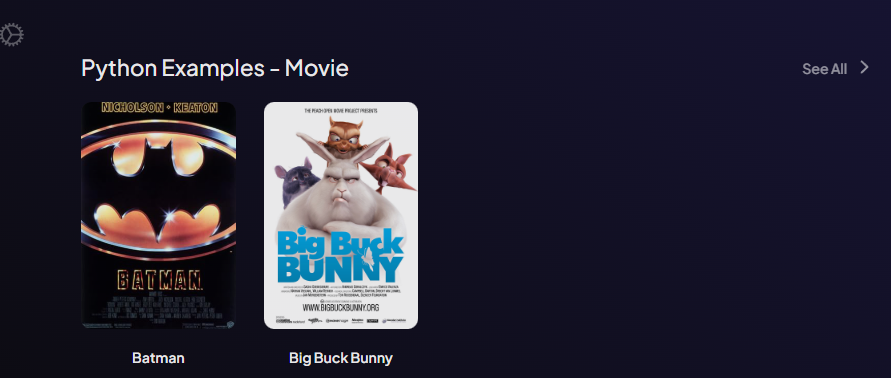
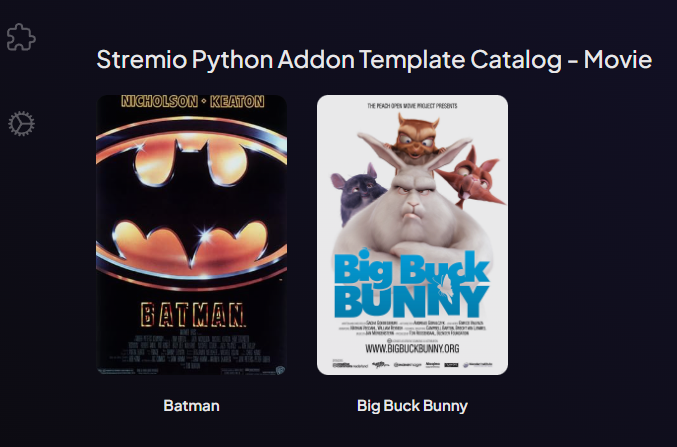
:sparkles: add repo template files

diff --git a/src/stremio_addon_python_template/main.py b/src/stremio_addon_python_template/main.py
@@ -1,25 +1,27 @@
 import uvicorn
-from fastapi import FastAPI
+from fastapi import FastAPI, Request
 from fastapi.middleware.cors import CORSMiddleware
 from fastapi.responses import RedirectResponse
 from nicegui import ui
 
-from stremio_addon_python_template import settings, logger
+from stremio_addon_python_template import settings, logger, __version__
 
 # Stremio Addon Manifest - defines addon capabilities
 MANIFEST = {
     "id": settings.ADDON_ID,
-    "version": "1.0.0",
-    "name": "Python UV Template",
+    "version": __version__,
+    "name": "Stremio Python Addon Template",
     "description": "A sample addon built with Python, FastAPI and UV with Pydantic Settings",
     "logo": "https://dl.strem.io/addon-logo.png",
     "resources": ["stream", "catalog"],
     "types": ["movie", "series"],
-    "catalogs": [{"type": "movie", "id": "python_movies", "name": "Python Examples"}],
+    "catalogs": [
+        {"type": "movie", "id": "python_movies", "name": "Stremio Python Addon Template Catalog"}
+    ],
     "idPrefixes": ["tt"],
 }
 
-app = FastAPI(title="Stremio Python Addon", version="1.0.0")
+app = FastAPI(title="Stremio Python Addon Template", version=__version__)
 
 # CORS Middleware - required for Stremio web players
 app.add_middleware(
@@ -40,9 +42,13 @@ async def root():
 
 # NiceGUI Configuration Page (we use here ui.page instead of @app.get)
 @ui.page("/configure")
-def configure_page():
+def configure_page(request: Request):
     """Configuration page with NiceGUI interface."""
     logger.info("Configure page accessed.")
+
+    # Get the current host from the request to generate the correct manifest URL
+    base_url = str(request.url).replace("/configure", "")
+    manifest_url = f"{base_url}/manifest.json"
 
     with ui.card().classes("w-full max-w-md mx-auto mt-10 p-6"):
         ui.label("Stremio Addon Configuration").classes("text-2xl font-bold mb-4")
@@ -72,10 +78,8 @@ def configure_page():
         ui.separator().classes("my-4")
 
         ui.label("Installation").classes("text-lg font-semibold mb-2")
-        ui.label(
-            f"Add this addon to Stremio (change the localhost to your cloudflared address) :"
-        ).classes("text-sm text-gray-600 mb-2")
-        ui.code(f"http://127.0.0.1:{settings.PORT}/manifest.json").classes("w-full")
+        ui.label("Copy this URL and add it to Stremio:").classes("text-sm text-gray-600 mb-2")
+        ui.code(manifest_url).classes("w-full")
 
 
 @app.get("/manifest.json")
@@ -145,6 +149,7 @@ ui.run_with(app, storage_secret="stremio-addon-secret-key")
 # Entry Point
 if __name__ == "__main__":
     logger.info(f"Starting server with ADDON_ID: {settings.ADDON_ID}")
+    logger.info(f"Addon version is {__version__}")
     logger.info(f"Addon running on http://127.0.0.1:{settings.PORT}")
     logger.info(f"Install URL: http://127.0.0.1:{settings.PORT}/manifest.json")
     uvicorn.run(

diff --git a/src/stremio_addon_python_template/__init__.py b/src/stremio_addon_python_template/__init__.py
@@ -23,3 +23,9 @@ settings, logger = initialize()
 
 def hello():
     logger.info("Hello World")
+
+
+# Get version from pyproject.toml
+from importlib.metadata import version
+
+__version__ = version("stremio-python-addon-template")

diff --git a/README.md b/README.md
@@ -133,7 +133,7 @@ sudo dpkg -i cloudflared-linux-amd64.deb
 `cloudflared tunnel --url http://localhost:7000`
 
 This gives you a URL like https://random.trycloudflare.com/
-- Paste it in your browser first to make sure it works, for example: https://updated-occupations-florists-swing.trycloudflare.com/manifest.json
+- Paste it in your browser first to make sure it works, for example: https://random.trycloudflare.com/manifest.json
 - Open Stremio and add the Addon.
 - ![stremio_addon_img.png](assets/stremio_addon_img.png)
 - Scroll down in the Board where you have your catalogs, you will see your addon.
@@ -146,6 +146,7 @@ All the URLs:
 ✅ http://127.0.0.1:7000/manifest.json → addon manifest
 ✅ http://127.0.0.1:7000/catalog/{type}/{id}.json → catalog endpoint
 ✅ http://127.0.0.1:7000/stream/{type}/{id}.json → stream endpoint
+⚠ The URL to copy to Stremio addons is the one generated by cloudflared.
 
 #### Check the documentation
 You can check the documentation (website).
